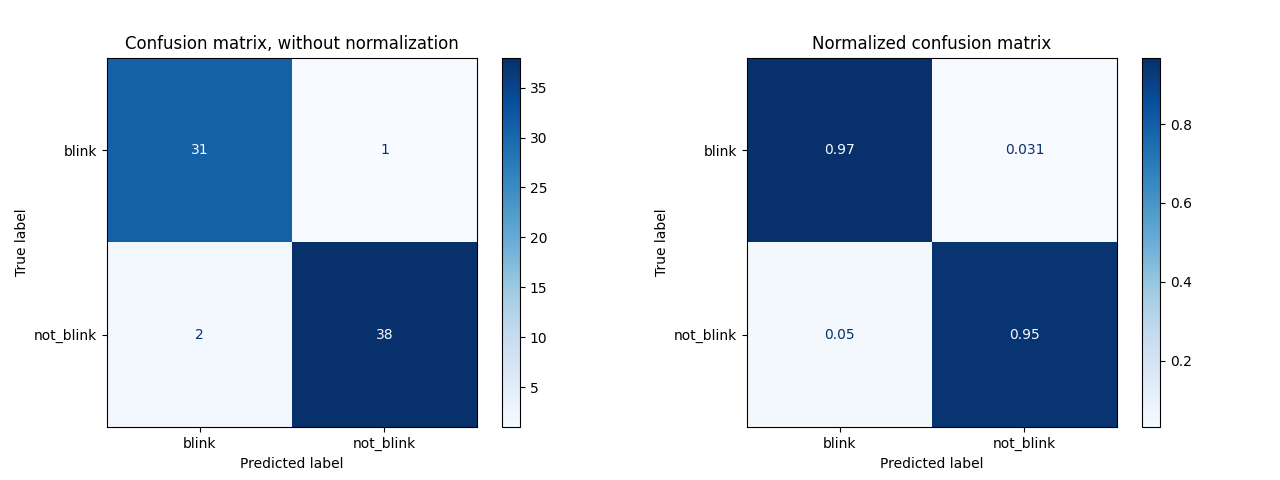
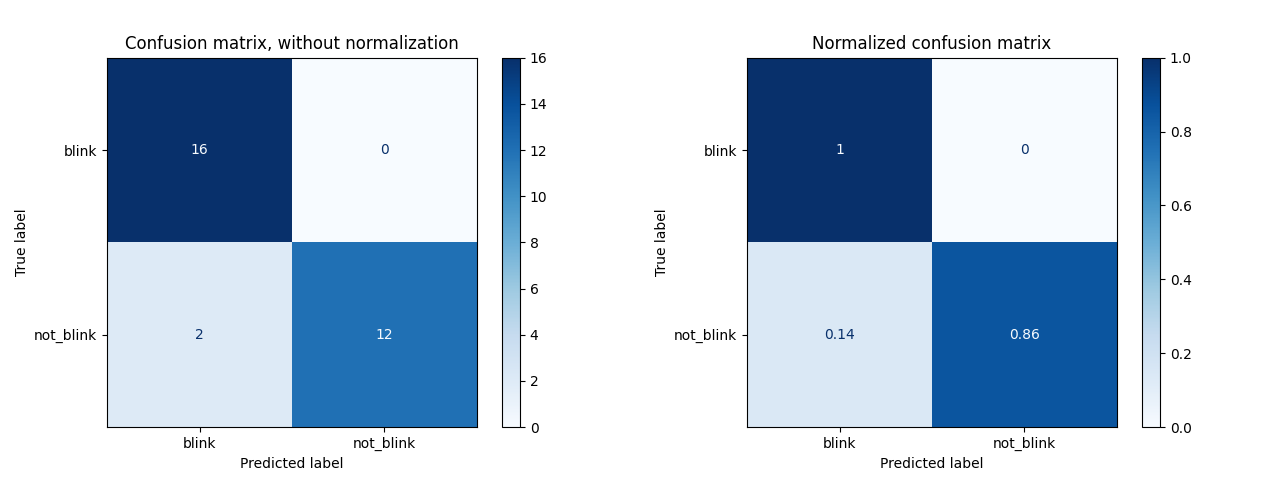
updated confusion matix figures

diff --git a/szakdolgozat/chapters/3_gestures.tex b/szakdolgozat/chapters/3_gestures.tex
@@ -139,14 +139,13 @@ A betanított modell teljesítményének mérésére két módszert kívánok al
 
 A \textit{$k$-hajtásos Cross-Validation} technika a mintát $k$ egyenlő részre osztja, majd egy ciklussal végigmegy a $k$-kon: a minta $k-1$ részével tanítja a modellt, majd a maradékon pedig ellenőrzi és kiértékeli az így beatanított modell teljesítményét. Így $k$ darab eredményt kapunk, melyet átlagából következtethetéseket vonhatunk le a modell teljesítményéről.
 
-Például a \textit{Symbol}-hoz készített három osztállyal rendelkező 348 elemű adatkészletem 70\%-os (243 db) tanítómintájára, $k=5$ hajtással elvégzett \textit{Cross-Validation} teljesítménymérése a következő:
+Például a \textit{Symbol}-hoz készített három osztállyal rendelkező 60 elemű adatkészletem 70\%-os (42 db) tanítómintájára, $k=4$ hajtással elvégzett \textit{Cross-Validation} teljesítménymérése a következő:
 \begin{align*}
-	k_1 &= 0.9388\\
-	k_2 &= 0.9796\\
-	k_3 &= 0.9592\\
-	k_4 &= 0.9167\\
-	k_5 &= 0.9792\\
-	\bar{k} &= 0.9547
+	k_1 &= 1.0000\\
+	k_2 &= 0.9091\\
+	k_3 &= 1.0000\\
+	k_4 &= 0.9000\\
+	\bar{k} &= 0.9523
 \end{align*}
 Ahol $\bar{k}$ a minta átlaga.\\
 Az eredményekhez érdemes hibát is számolni, majd segítségével konfidencia intervallumot megadni. Legyen például a konfidenciaintervallum 95\%-os és a hibát Standard hibaként tekintsük.
@@ -154,20 +153,20 @@ Az eredményekhez érdemes hibát is számolni, majd segítségével konfidencia
 	\boldsymbol{CI}(95) = m (+/-) 1.96 \cdot \frac{s}{\sqrt[]{n}}
 \end{align*}
 Ahol $m$ a minta átlaga, $s$ a szórás, $n$ pedig a minta darabszáma.\\
-Az eredmények alapján a betanított modellünk $95.47 (+/- 2.12)$\%-os pontossággal rendelkezik, vagyis ennyi valószínűséggel hoz helyes döntéseket. Hogy megvizsgáljuk, hogy mely esetekben téved a modellünk egy másik teljesítménymérő módszer segítségére lesz szükségünk, a \textit{Confusion Matrix} ábrázolásra.
+Az eredmények alapján a betanított modellünk $95.23 (+/- 4.69)$\%-os pontossággal rendelkezik, vagyis ennyi valószínűséggel hoz helyes döntéseket. Hogy megvizsgáljuk, hogy mely esetekben téved a modellünk egy másik teljesítménymérő módszer segítségére lesz szükségünk, a \textit{Confusion Matrix} ábrázolásra.
 
 \SubSection{Confusion Matrix}
 
 \begin{figure}[h]
 \centering
-\includegraphics[width=\textwidth]{images/confusion_m.png}
+\includegraphics[width=\textwidth]{images/symbol_confusion.png}
 \caption{\textit{Confusion Matrix}-ok a \textit{Symbol} adatkészletre}
 \label{fig:confusionm}
 \end{figure}
 
 A teljesítménymérésnek egy másik módja lehet az úgynevezett \textit{Confusion Matrix} módszer. Segítségével meg lehet figyelni a helyes és hibás döntések eloszlását egy mátrix formájában.\cite{koesmarno2019class}
 A már betanított modellünket a teszt adatkészlettel ellenőriztetjük, majd az eredmények alapján megszerkeszthetjük a mátrixunkat. Két fajta eredmény keletkezhet minden osztályban: Helyes becslés és hibás becslés. Mátrix soraiban az adatkészletben szerepő osztályok találhatók, míg oszlopaiban a becslések. Az általános \textit{Confusion Matrix} főátlójában a helyes becslések eloszlása figyelhető meg. Az átló alatti és feletti részeken pedig a hibás becslések, vagyis a hibás reosztályozások számai. A mátrixból jól leolvasható, hogy mely osztályokat kever össze az adott modell. A normalizált mátrix csupán arra szolgál, hogy nagy mennyiségű adatok mellett is jól kiolvashatóak legyenek az egyes osztályokra hozott becslések mértékei.
-A \ref{fig:confusionm} ábrán megfigyelhető a \textit{Symbol} adatkészletre betanított modell, teszt mintahalmazzal való ellenőrzése \textit{Confusion Matrix} ábrázolással. Megfigyelhető, hogy milyen esetekben hozott hibás döntést a modellünk.
+A \ref{fig:confusionm} ábrán megfigyelhető a \textit{Symbol} adatkészletre betanított modell, teszt mintahalmazzal való ellenőrzése \textit{Confusion Matrix} ábrázolással. Megfigyelhető, hogy milyen esetekben hozott hibás döntést a modellünk. Az adatkészlet 30\%-át (18 db minta) a betanított modell nem ismeri, így ezt tekinthetjük számára teljesen új bemenetnek. Jól látható, hogy a validálás során a modell csupán csak egy esetben tévedett, egy \textit{Omikron} gesztus helyett \textit{Gamma} gesztust feltételezett.
 
 \Section{Kontrollpontok és vektorok számítása}
 
@@ -267,7 +266,7 @@ A kapott kép dimenzióit skálázással tovább csökkenthetjük egy bizonyos p
 
 Amint rendelkezésünkre állnak a kapott adatok, jellegvektort formálhatunk belőlük a következő módon: A $16\times16$ felbontású képet kinyújtjuk és az irányvektorok csoportjaival is hasonlóképpen járunk el. A kapott listákat pedig konkatenáljuk, vagyis egymás után fűzzük őket. Így egy 306 hosszúságú jellegvektort kapunk, melyben benne vannak a kép intenzitásértékei és a mozdulatot leíró részvektortér adatai is. A jellegvektor segítségével ezután a betanított modellünk osztályozza a gesztust.
 
-A \textit{Blink} detektálásához egy bináris osztályozóra lesz szükségünk. A bináris osztályozók két osztályt ismernek, esetünkben az igaz érték jelenti majd a \textit{Blink} gesztust, a hamis érték pedig az olyan gesztusokat, amelyek nagy valószínűséggel nem \textit{Blink}-ek. A modell betanításához egy sor \textit{Blink}-et kellett rögzítenem, a hamis osztály adatainak gyűjtésénél pedig elindítottam a programot és próbáltam olyan mozdulatokat végrehajtani a kamera előtt, melyeket egy prezentáció alkalmával a prezentáló személy is leadna. Ilyenek a magyarázó mozgás, a mutogatás, gesztikulálás. Egy \textit{Blink} és egy másik mozdulat képei a \ref{fig:blinkvsnotblink} ábrán figyelhetők meg. Amint rendelkezésre állt a kívánt adatmennyiség, a rögzítést leállítottam és a kapott adatkészlettel betanítottam az osztályozó modellt.
+A \textit{Blink} detektálásához egy bináris osztályozóra lesz szükségünk. A bináris osztályozók két osztályt ismernek, esetünkben az igaz érték jelenti majd a \textit{Blink} gesztust, a hamis érték pedig az olyan gesztusokat, amelyek nagy valószínűséggel nem \textit{Blink}-ek. A modell betanításához egy sor \textit{Blink}-et kellett rögzítenem, a hamis osztály adatainak gyűjtésénél pedig elindítottam a programot és próbáltam olyan mozdulatokat végrehajtani a kamera előtt, melyeket egy prezentáció alkalmával a prezentáló személy is leadna. Ilyenek a magyarázó mozgás, a mutogatás, gesztikulálás. Egy \textit{Blink} és egy másik mozdulat képei a \ref{fig:blinkvsnotblink} ábrán figyelhetők meg. Amint rendelkezésre állt a kívánt adatmennyiség, a rögzítést leállítottam és a kapott adatkészlettel betanítottam az osztályozó modellt. Az gesztushoz tartozó adatkészlet 150 darab mintát tartalmaz, 75 darab \textit{Blink} és további 75 darab \textit{Blink}-től eltérő mozdulat adatait. A \ref{fig:blinkconfusion} ábrán megfigyelhető a 30 darabos teszt adatkészlettel validált betanított modellünk \textit{Confusion Matrix}-a.
 \begin{figure}[h]
 \centering
 \includegraphics[width=\textwidth]{images/blink_confusion.png}
@@ -334,7 +333,7 @@ Amennyiben a két pont iránya teljesen ellentétes, akkor a kapott érték a nu
 
 A prezentáló személy bizonyos mozdulatokat elvégezve további funkciókat érhet el. Az ilyen gesztusok egy fajtája általában a magyarázó mozgástól eltérőek, bizonyos pályákat követnek. Ilyen mozdulatok lehetnek például egy kör, vagy egy L betű, vagy különféle minták rajzolása levegőbe. Az egyes mozdulatok hasonló mintázatot követnek.
 
-A dolgozat programjához mellékelt \textit{Symbol} adatkészlet három gesztus adatait tartalmazza. A három mozdulat a következő neveket kapta:
+A dolgozat programjához mellékelt \textit{Symbol} adatkészlet három gesztus adatait tartalmazza, gesztusonként 20-20 tanítómintával. A három mozdulat a következő neveket kapta:
 \begin{itemize}
 	\item \textit{Gamma}
 	\item \textit{Omikron}
@@ -365,7 +364,7 @@ A vászon frissítése két módszerrel történik. Az elmozdulás értékek egy
 
 A felismerés pillanatát feltételekhez kell kötnünk. A mozdulat rajzolatának végső formája akkor alakul ki, amikor a felhasználó befejezte az adott mozdulatot. Ilyen esetben a videófolyamon nem figyelhető meg további mozgás. Az időzítés egyik feltétele mindenképpen a mozgás hiányának kell lennie. Ez többféleképpen is megfigyelhető, vizsgálhatjuk a globális eredővektorunkat is, vagy a \textit{Hőtérkép} segítségével meghatározott csoportok számát is figyelembe vehetjük. Mivel a mintázat rajzolásához is a vektorok összetartozó csoportját használtuk fel, az időzítés egyik feltételének a vektorcsoportok hiányát szabhatjuk meg. Egy másik feltétel a rajzolat aktuális állapotára vonatkozhat. Figyelembe vehetjük a vonalhosszat is, vagyis egy bizonyos vonalhossz alatt nem végeznénk el az osztályozási becslést. Ezen két feltétel biztosítja, hogy az osztályozási művelet végrehajtása a megfelelő pillanatban történjen, elkerülve a felesleges számításokat, hibás becsléseket.
 
-Mielőtt a gesztust reprezentáló képről döntene a modellünk, egy előfeldolgozási lépést kell végrehajtanunk rajta. A gesztus képe nem fogja betölteni a teljes vásznat, így sok felesleges értéket fog tartalmazni. Ennek kiküszöbölésére ki kell vágnunk a gesztus rajzolt képét és egy előre meghatározott felbontásra kell konvertálnunk. Tapasztalati alapokon a 11 $\times$ 15 -ös felbontás megfelelőnek tűnik, így minden egyes kivágott képet ilyen felbontásra kell alakítanunk. Ezen előfeldolgozási lépés elősegíti, hogy a betanított modellunket különböző rácsfelbontások és képarányok mellett is használni tudjuk, ugyanis a jellegvektorok mérete minden esetben azonos lesz.
+Mielőtt a gesztust reprezentáló képről döntene a modellünk, egy előfeldolgozási lépést kell végrehajtanunk rajta. A gesztus képe nem fogja betölteni a teljes vásznat, így sok felesleges értéket fog tartalmazni. Ennek kiküszöbölésére ki kell vágnunk a gesztus rajzolt képét és egy előre meghatározott felbontásra kell konvertálnunk. Tapasztalati alapokon a $11\times 15$-ös felbontás megfelelőnek tűnik, így minden egyes kivágott képet ilyen felbontásra kell alakítanunk. Ezen előfeldolgozási lépés elősegíti, hogy a betanított modellunket különböző rácsfelbontások és képarányok mellett is használni tudjuk, ugyanis a jellegvektorok mérete minden esetben azonos lesz.
 
 \begin{figure}[h]
 \centering
